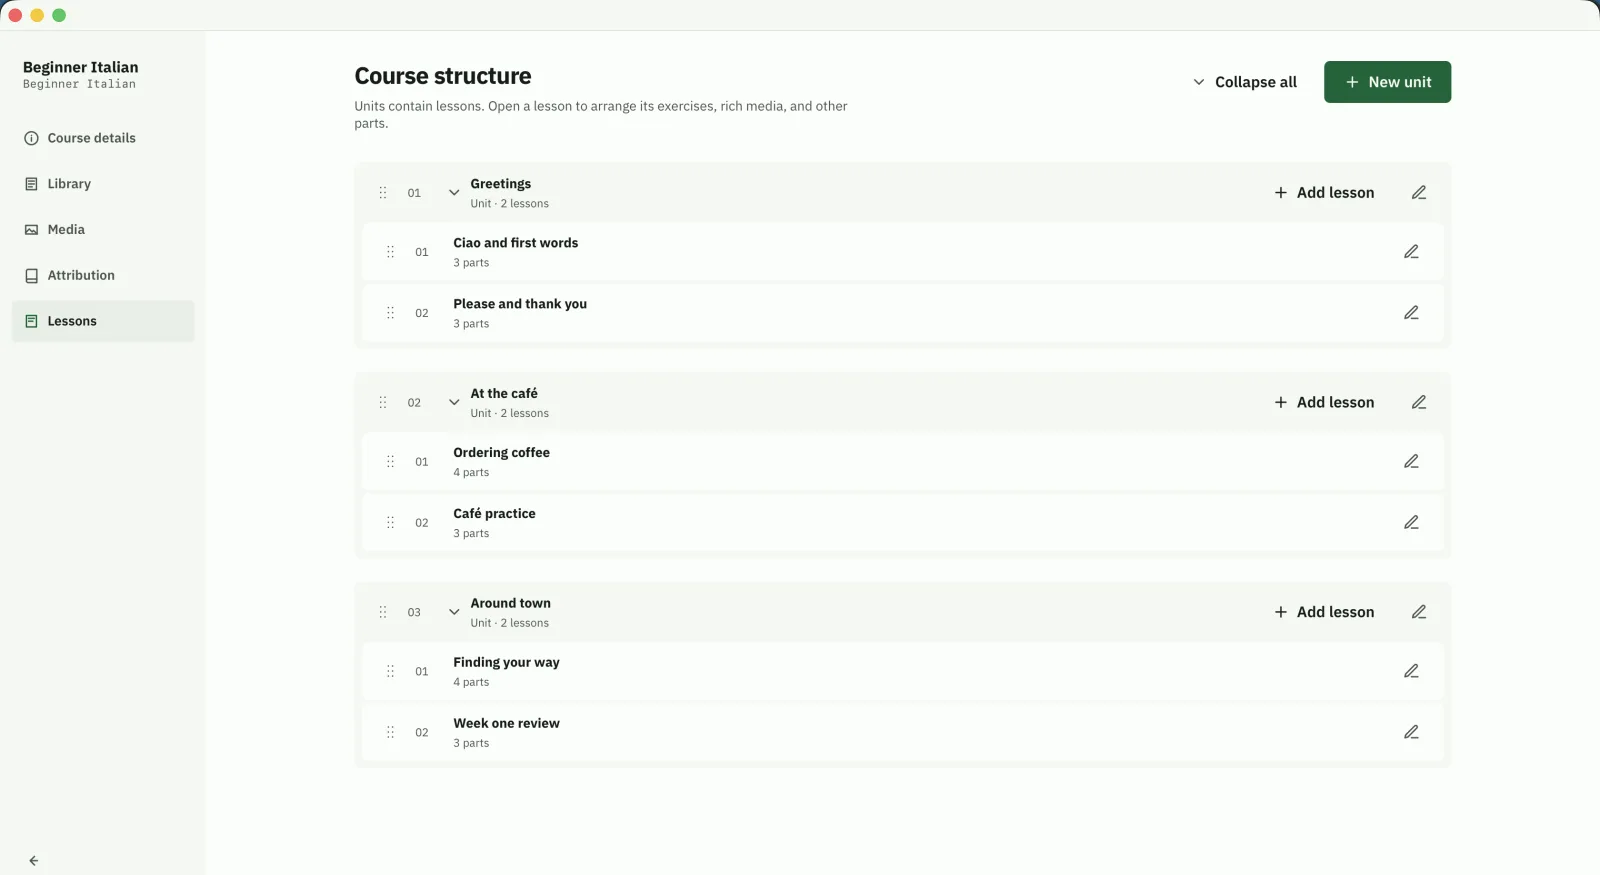
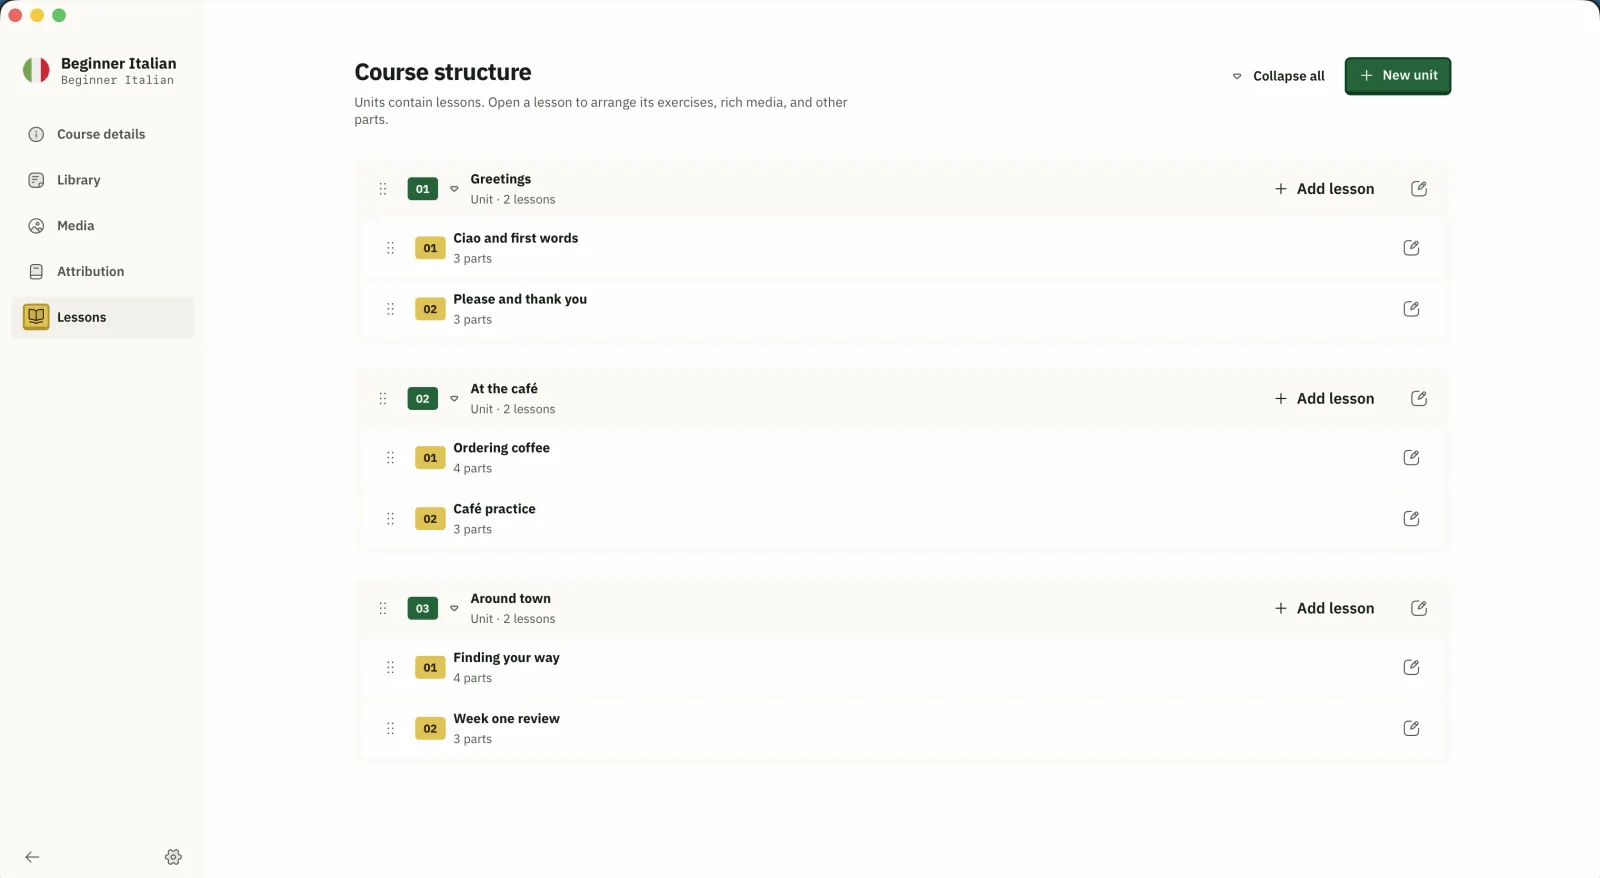
update screenshots

diff --git a/README.md b/README.md
@@ -4,6 +4,10 @@ A local-first course editor for the desktop, built with React, TypeScript, Vite,
 
 ## Screenshots
 
+Start from one place. Create a new course or reopen a recent project, each kept in its own local folder.
+
+![The Asakiri Studio start screen with options to create a new course, open a course, and a list of recent courses.](docs/screenshots/studio-start.webp)
+
 Structure the whole course. Group lessons into units and arrange each lesson's parts by dragging.
 
 ![Asakiri Studio showing a Beginner Italian course outline with units and lessons.](docs/screenshots/studio-course-structure.webp)
